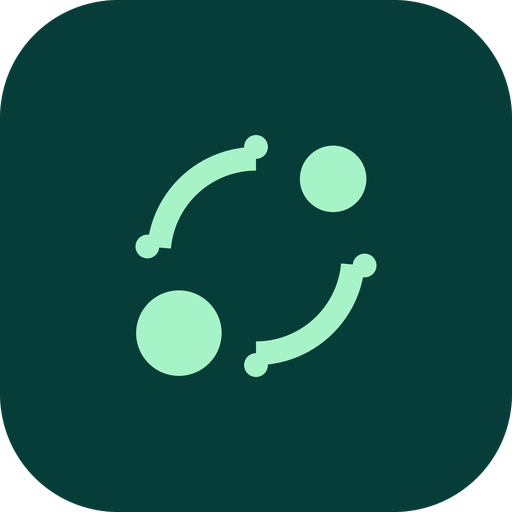
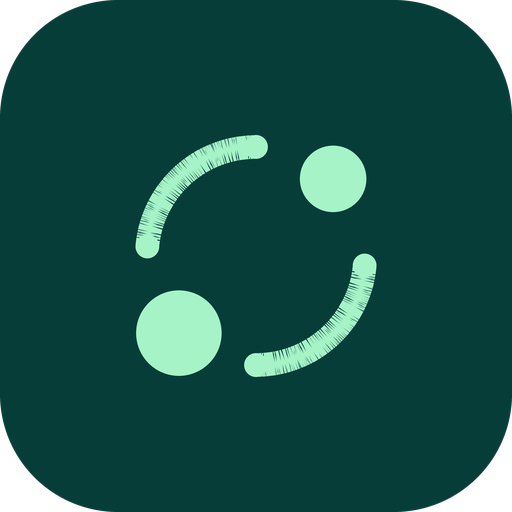
Match legacy launcher arc strokes to native vector geometry

Changed region(s): [[0.5, 0.5, 0.75, 0.75], [0.25, 0.25, 0.5, 0.5]]

diff --git a/scripts/tether_brand.py b/scripts/tether_brand.py
@@ -55,7 +55,8 @@ def render(size, background=False, round_icon=False):
     def xy(x, y):
         return x*n/108, y*n/108
     for start, end in [(185, 270), (5, 90)]:
-        draw.arc((*xy(31, 31), *xy(77, 77)), start, end, fill=MINT, width=round(5*n/108))
+        curve = [xy(*point(start + (end-start)*i/160)) for i in range(161)]
+        draw.line(curve, fill=MINT, width=round(5*n/108), joint="curve")
         for a in (start, end):
             x, y = point(a)
             draw.ellipse((*xy(x-2.5, y-2.5), *xy(x+2.5, y+2.5)), fill=MINT)
